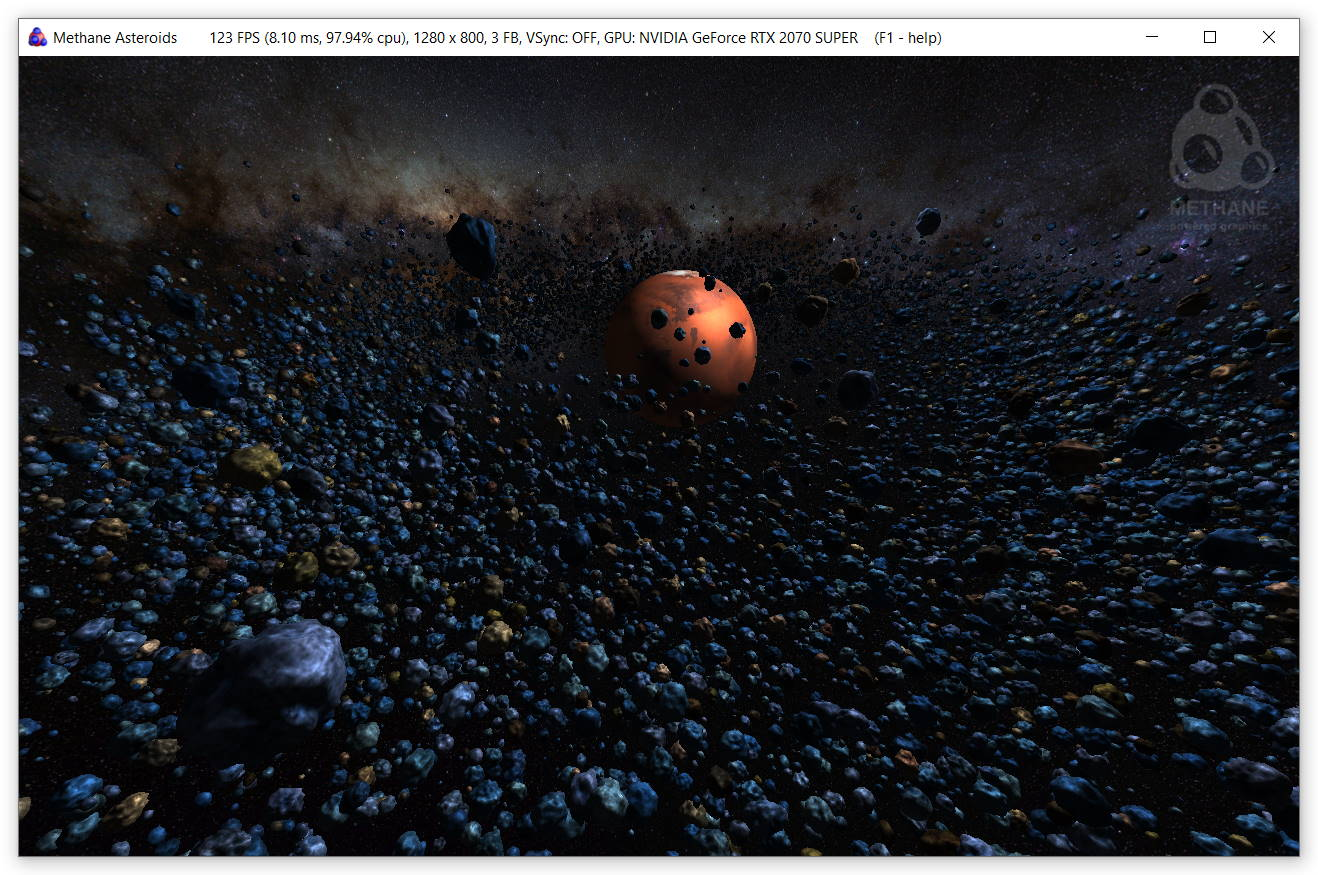
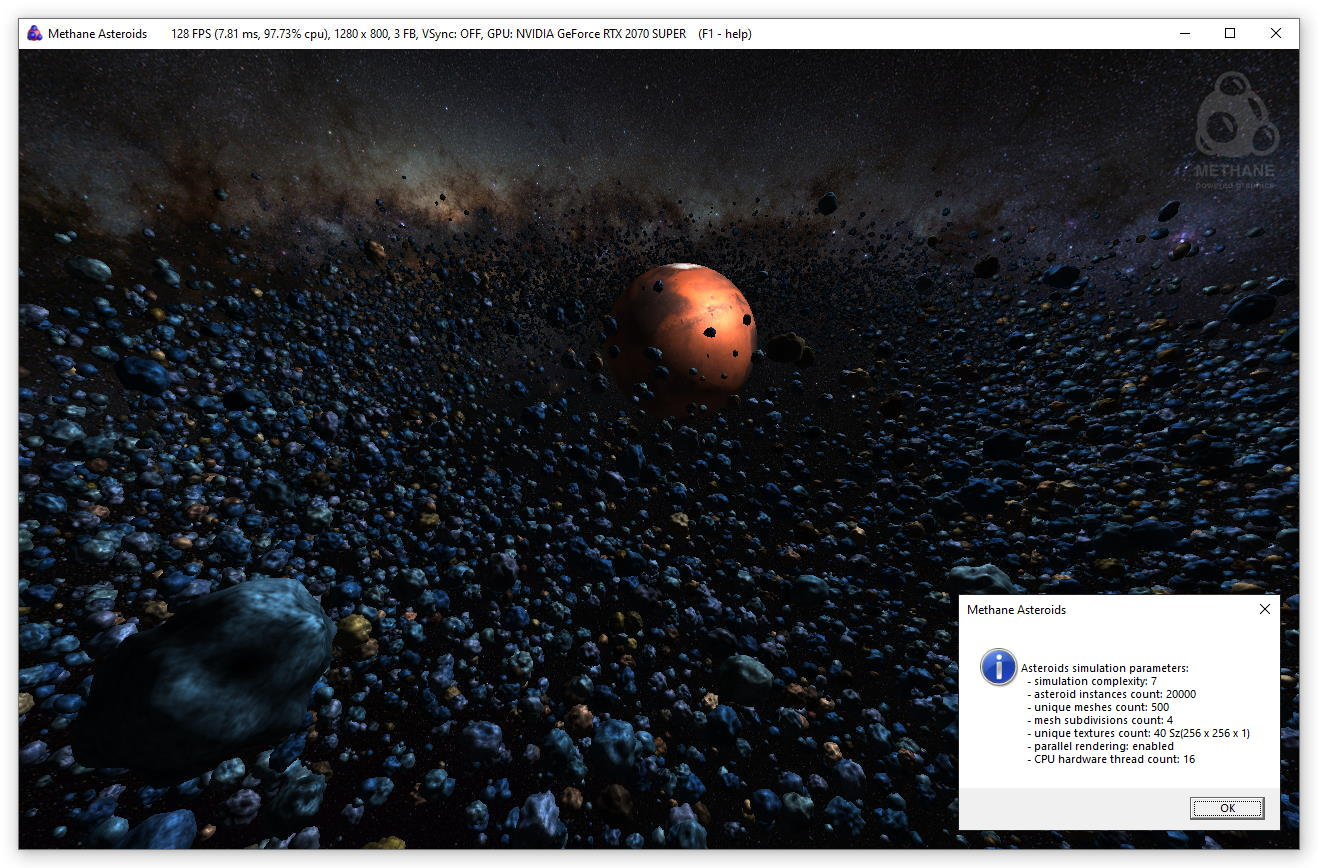
Asteroids simulation parameters in message box.

diff --git a/Apps/Samples/Asteroids/AsteroidsAppController.cpp b/Apps/Samples/Asteroids/AsteroidsAppController.cpp
@@ -52,32 +52,40 @@ void AsteroidsAppController::OnKeyboardStateAction(AsteroidsAppAction action)
     const uint32_t asteroids_complexity = m_asteroids_app.GetAsteroidsComplexity();
     switch(action)
     {
-        case AsteroidsAppAction::IncreaseComplexity:
-            m_asteroids_app.SetAsteroidsComplexity(asteroids_complexity + 1);
-            break;
-            
-        case AsteroidsAppAction::DecreaseComplexity:
-            m_asteroids_app.SetAsteroidsComplexity(asteroids_complexity > 1 ? asteroids_complexity - 1 : 0);
-            break;
-            
-        case AsteroidsAppAction::SwitchParallelRendering:
-            m_asteroids_app.SetParallelRenderingEnabled(!m_asteroids_app.IsParallelRenderingEnabled());
-            break;
+    case AsteroidsAppAction::ShowParameters:
+        m_asteroids_app.Alert({
+            pal::AppBase::Message::Type::Information,
+            "Methane Asteroids",
+            m_asteroids_app.GetParametersString()
+        });
+        break;
 
-        case AsteroidsAppAction::SwitchMeshLodsColoring:
-            m_asteroids_app.GetAsterpodsArray().SetMeshLodColoringEnabled(!m_asteroids_app.GetAsterpodsArray().IsMeshLodColoringEnabled());
-            break;
+    case AsteroidsAppAction::IncreaseComplexity:
+        m_asteroids_app.SetAsteroidsComplexity(asteroids_complexity + 1);
+        break;
+        
+    case AsteroidsAppAction::DecreaseComplexity:
+        m_asteroids_app.SetAsteroidsComplexity(asteroids_complexity > 1 ? asteroids_complexity - 1 : 0);
+        break;
+        
+    case AsteroidsAppAction::SwitchParallelRendering:
+        m_asteroids_app.SetParallelRenderingEnabled(!m_asteroids_app.IsParallelRenderingEnabled());
+        break;
 
-        case AsteroidsAppAction::IncreaseMeshLodComplexity:
-            m_asteroids_app.GetAsterpodsArray().SetMinMeshLodScreenSize(m_asteroids_app.GetAsterpodsArray().GetMinMeshLodScreenSize() / 2.f);
-            break;
+    case AsteroidsAppAction::SwitchMeshLodsColoring:
+        m_asteroids_app.GetAsteroidsArray().SetMeshLodColoringEnabled(!m_asteroids_app.GetAsteroidsArray().IsMeshLodColoringEnabled());
+        break;
 
-        case AsteroidsAppAction::DecreaseMeshLodComplexity:
-            m_asteroids_app.GetAsterpodsArray().SetMinMeshLodScreenSize(m_asteroids_app.GetAsterpodsArray().GetMinMeshLodScreenSize() * 2.f);
-            break;
-            
-        default:
-            assert(0);
+    case AsteroidsAppAction::IncreaseMeshLodComplexity:
+        m_asteroids_app.GetAsteroidsArray().SetMinMeshLodScreenSize(m_asteroids_app.GetAsteroidsArray().GetMinMeshLodScreenSize() / 2.f);
+        break;
+
+    case AsteroidsAppAction::DecreaseMeshLodComplexity:
+        m_asteroids_app.GetAsteroidsArray().SetMinMeshLodScreenSize(m_asteroids_app.GetAsteroidsArray().GetMinMeshLodScreenSize() * 2.f);
+        break;
+        
+    default:
+        assert(0);
     }
 }
 
@@ -86,13 +94,14 @@ std::string AsteroidsAppController::GetKeyboardActionName(AsteroidsAppAction act
     ITT_FUNCTION_TASK();
     switch(action)
     {
-        case AsteroidsAppAction::IncreaseComplexity:        return "increase scene complexity";
-        case AsteroidsAppAction::DecreaseComplexity:        return "decrease scene complexity";
-        case AsteroidsAppAction::SwitchParallelRendering:   return "switch parallel rendering";
-        case AsteroidsAppAction::SwitchMeshLodsColoring:    return "switch mesh LOD coloring";
-        case AsteroidsAppAction::IncreaseMeshLodComplexity: return "increase mesh LOD complexity";
-        case AsteroidsAppAction::DecreaseMeshLodComplexity: return "decrease mesh LOD complexity";
-        default: assert(0);
+    case AsteroidsAppAction::ShowParameters:            return "show simulation parameters";
+    case AsteroidsAppAction::IncreaseComplexity:        return "increase scene complexity";
+    case AsteroidsAppAction::DecreaseComplexity:        return "decrease scene complexity";
+    case AsteroidsAppAction::SwitchParallelRendering:   return "switch parallel rendering";
+    case AsteroidsAppAction::SwitchMeshLodsColoring:    return "switch mesh LOD coloring";
+    case AsteroidsAppAction::IncreaseMeshLodComplexity: return "increase mesh LOD complexity";
+    case AsteroidsAppAction::DecreaseMeshLodComplexity: return "decrease mesh LOD complexity";
+    default: assert(0);
     }
     return "";
 }

diff --git a/Apps/Samples/Asteroids/AsteroidsApp.cpp b/Apps/Samples/Asteroids/AsteroidsApp.cpp
@@ -81,6 +81,7 @@ static const ParamValues<float, g_max_complexity+1> g_scale_ratio = {
 };
 
 static const std::map<pal::Keyboard::State, AsteroidsAppAction> g_asteroids_action_by_keyboard_state = {
+    { { pal::Keyboard::Key::F2           }, AsteroidsAppAction::ShowParameters              },
     { { pal::Keyboard::Key::RightBracket }, AsteroidsAppAction::IncreaseComplexity          },
     { { pal::Keyboard::Key::LeftBracket  }, AsteroidsAppAction::DecreaseComplexity          },
     { { pal::Keyboard::Key::P            }, AsteroidsAppAction::SwitchParallelRendering     },
@@ -296,7 +297,7 @@ void AsteroidsApp::Init()
     //  - execute commands to upload resources to GPU
     context.CompleteInitialization();
 
-    PrintParameters();
+    pal::PrintToDebugOutput(GetParametersString());
 }
 
 bool AsteroidsApp::Resize(const gfx::FrameSize& frame_size, bool is_minimized)
@@ -427,13 +428,6 @@ void AsteroidsApp::OnContextReleased()
     GraphicsApp::OnContextReleased();
 }
 
-AsteroidsArray& AsteroidsApp::GetAsterpodsArray()
-{
-    ITT_FUNCTION_TASK();
-    assert(!!m_sp_asteroids_array);
-    return *m_sp_asteroids_array;
-}
-
 void AsteroidsApp::SetAsteroidsComplexity(uint32_t asteroids_complexity)
 {
     ITT_FUNCTION_TASK();
@@ -466,23 +460,33 @@ void AsteroidsApp::SetParallelRenderingEnabled(bool is_parallel_rendering_enable
 
     m_is_parallel_rendering_enabled = is_parallel_rendering_enabled;
 
-    PrintParameters();
+    pal::PrintToDebugOutput(GetParametersString());
 }
 
-void AsteroidsApp::PrintParameters()
+
+AsteroidsArray& AsteroidsApp::GetAsteroidsArray() const
+{
+    ITT_FUNCTION_TASK();
+    assert(!!m_sp_asteroids_array);
+    return *m_sp_asteroids_array;
+}
+
+std::string AsteroidsApp::GetParametersString() const
 {
     ITT_FUNCTION_TASK();
 
     std::stringstream ss;
     ss << std::endl << "Asteroids simulation parameters:"
-       << std::endl << "  - simulation complexity: "    << m_asteroids_complexity
-       << std::endl << "  - parallel rendering: "       << (m_is_parallel_rendering_enabled ? "enabled" : "disabled")
-       << std::endl << "  - asteroid instances count: " << m_asteroids_array_settings.instance_count
-       << std::endl << "  - unique meshes count: "      << m_asteroids_array_settings.unique_mesh_count
-       << std::endl << "  - mesh subdivisions count: "  << m_asteroids_array_settings.subdivisions_count
-       << std::endl << "  - unique textures count: "    << m_asteroids_array_settings.textures_count << " "
-                                                        << static_cast<std::string>(m_asteroids_array_settings.texture_dimensions);
-    pal::PrintToDebugOutput(ss.str());
+       << std::endl << "  - simulation complexity: "     << m_asteroids_complexity
+       << std::endl << "  - asteroid instances count: "  << m_asteroids_array_settings.instance_count
+       << std::endl << "  - unique meshes count: "       << m_asteroids_array_settings.unique_mesh_count
+       << std::endl << "  - mesh subdivisions count: "   << m_asteroids_array_settings.subdivisions_count
+       << std::endl << "  - unique textures count: "     << m_asteroids_array_settings.textures_count << " "
+                                                         << static_cast<std::string>(m_asteroids_array_settings.texture_dimensions)
+       << std::endl << "  - parallel rendering: "        << (m_is_parallel_rendering_enabled ? "enabled" : "disabled")
+       << std::endl << "  - CPU hardware thread count: " << std::thread::hardware_concurrency();
+
+    return ss.str();
 }
 
 } // namespace Methane::Samples

diff --git a/Apps/Samples/Asteroids/AsteroidsApp.h b/Apps/Samples/Asteroids/AsteroidsApp.h
@@ -65,15 +65,14 @@ public:
     // Context::Callback overrides
     void OnContextReleased() override;
 
-    AsteroidsArray& GetAsterpodsArray();
-
     uint32_t GetAsteroidsComplexity() const { return m_asteroids_complexity; }
     void     SetAsteroidsComplexity(uint32_t asteroids_complexity);
     
     bool     IsParallelRenderingEnabled() const { return m_is_parallel_rendering_enabled; }
     void     SetParallelRenderingEnabled(bool is_parallel_rendering_enabled);
 
-    void PrintParameters();
+    AsteroidsArray& GetAsteroidsArray() const;
+    std::string     GetParametersString() const;
 
 private:
     struct SHADER_STRUCT_ALIGN Constants

diff --git a/Apps/Samples/Asteroids/AsteroidsAppController.h b/Apps/Samples/Asteroids/AsteroidsAppController.h
@@ -34,7 +34,8 @@ class AsteroidsApp;
 enum class AsteroidsAppAction : uint32_t
 {
     None = 0u,
-    
+
+    ShowParameters,
     IncreaseComplexity,
     DecreaseComplexity,
     SwitchParallelRendering,
